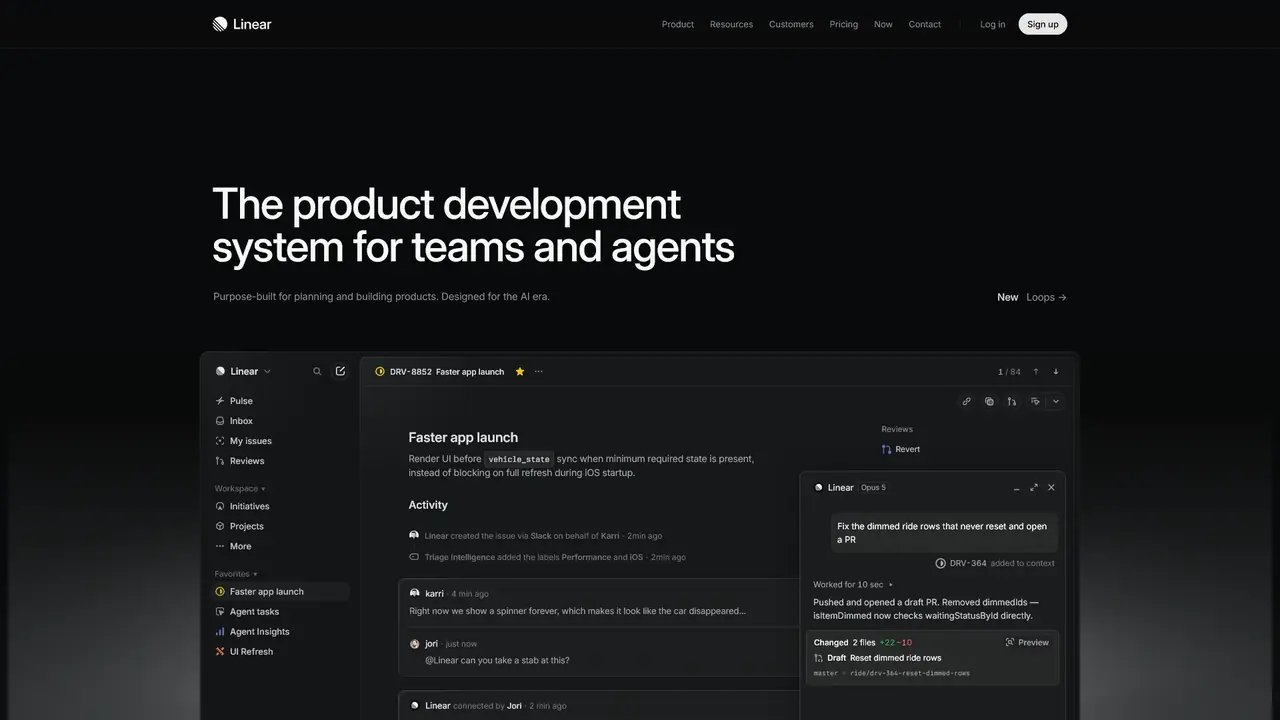
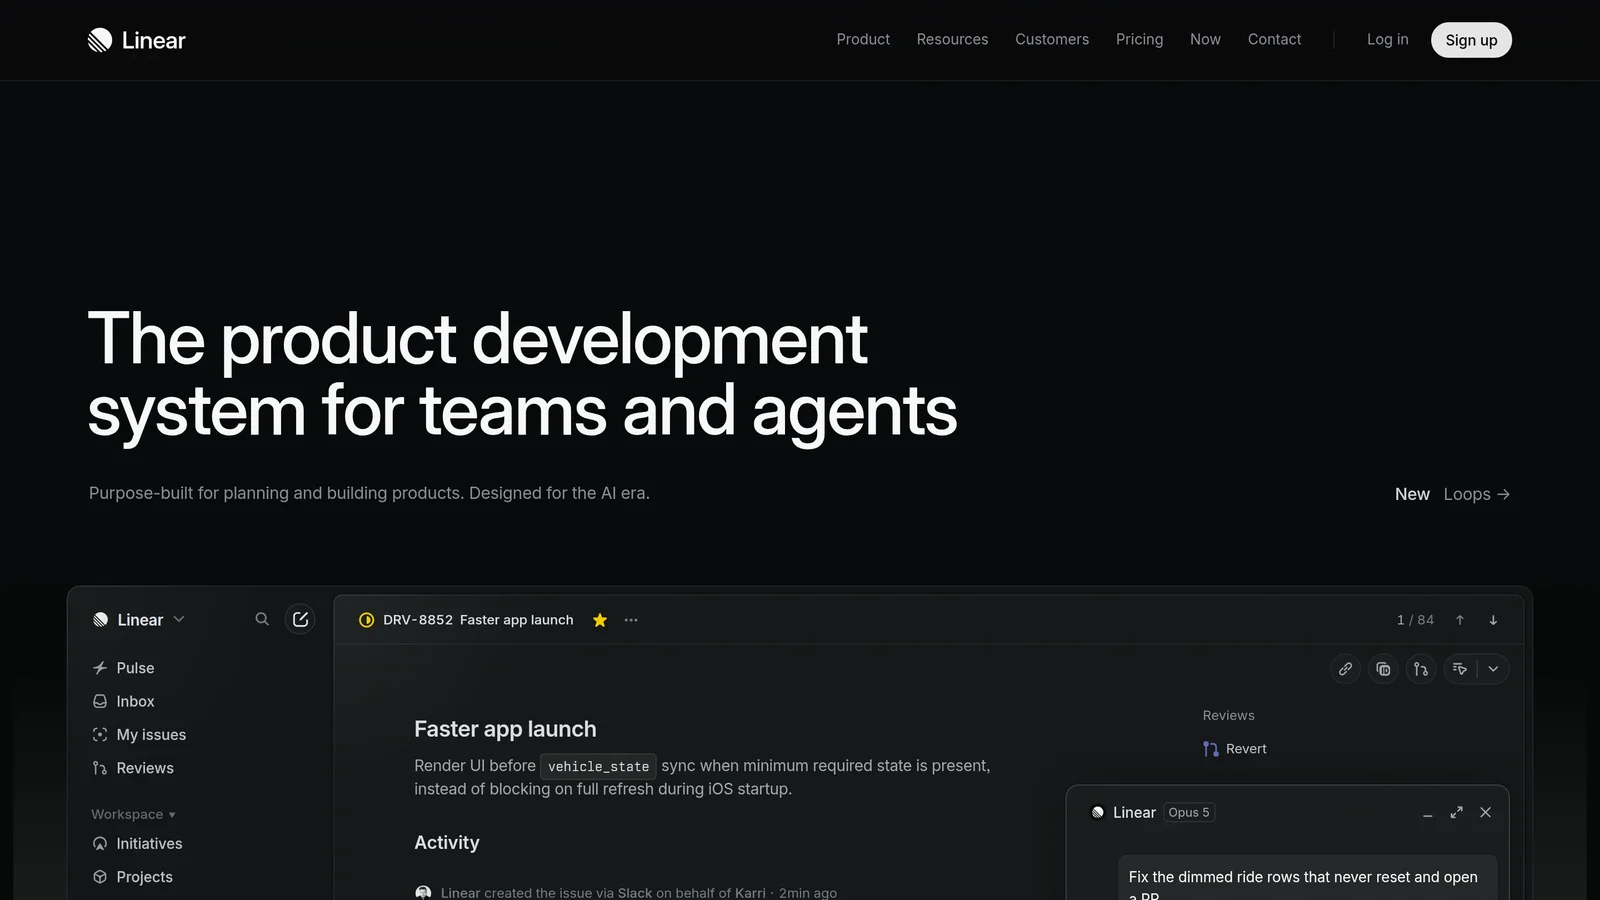
Landing v4: every image regenerated from the sharp 2x captures; Linear testimonials and closing call recaptured (old crops were blank); soft Index button; sound button shows the current state; hovered hero swaps places with the front one; blank-crop check added to the capture skill
Claude-Session: https://claude.ai/code/session_014U6SWDy7oBXdXxmTMspeAT

diff --git a/landing/prototype/landing-v4.html b/landing/prototype/landing-v4.html
@@ -52,8 +52,9 @@ h1, h2, h3 { margin: 0; font-family: var(--font-display); font-weight: 600; lett
 .btn-cta .ar { display: grid; place-items: center; width: 22px; height: 22px; border-radius: 7px; background: rgba(255,255,255,.18); transition: transform .2s; }
 .btn-cta:hover .ar { transform: translateX(2px); }
 .btn-cta .l-short { display: none; }
-.idx-btn { height: 40px; padding: 0 14px; border: 1px solid var(--ink); border-radius: var(--r); background: #fff; display: inline-flex; align-items: center; gap: 10px; font: 500 14px/1 var(--font-body); cursor: pointer; }
-.idx-btn:hover { background: var(--tile); }
+.idx-btn { height: 40px; padding: 0 14px; border: 1px solid rgba(47,85,255,.14); border-radius: var(--r); background: #f4f6fd; color: var(--ink); display: inline-flex; align-items: center; gap: 10px; font: 500 14px/1 var(--font-body); cursor: pointer; transition: background .15s, border-color .15s; }
+.idx-btn:hover { background: #eaeefc; border-color: rgba(47,85,255,.24); }
+.idx-btn[aria-expanded="true"] { background: var(--blue-soft); border-color: rgba(47,85,255,.3); }
 .idx-btn i { display: grid; gap: 4px; width: 16px; }
 .idx-btn i b { display: block; height: 1.5px; background: currentColor; transition: transform .25s; }
 .idx-btn[aria-expanded="true"] i b:first-child { transform: translateY(2.75px) rotate(45deg); }
@@ -170,8 +171,9 @@ main { position: relative; }
 .film video { width: 100%; height: 100%; object-fit: cover; }
 .snd { position: absolute; right: 16px; bottom: 16px; display: inline-flex; align-items: center; gap: 8px; height: 40px; padding: 0 14px; border: 1px solid var(--soft-border); border-radius: 999px; background: rgba(255,255,255,.92); color: var(--ink); font: 500 14px/1 var(--font-body); cursor: pointer; box-shadow: var(--soft-shadow); }
 .snd:hover { background: #fff; }
-.snd .w { opacity: .25; }
-.snd[aria-pressed="true"] .w { opacity: 1; }
+.snd .i-on, .snd[aria-pressed="true"] .i-off { display: none; }
+.snd[aria-pressed="true"] .i-on { display: block; }
+.snd[aria-pressed="true"] { color: var(--blue); border-color: rgba(47,85,255,.35); }
 .film-cap { margin: 12px 0 0; font-size: 10.5px; }
 .tiles-h { margin: clamp(48px, 6vw, 72px) 0 0; font-size: clamp(1.3rem, 1vw + 1rem, 1.6rem); letter-spacing: -.03em; }
 
@@ -181,6 +183,9 @@ main { position: relative; }
 .tile:hover { background: #eef0ea; transform: translateY(-3px); }
 .th { position: relative; aspect-ratio: 4 / 3; overflow: hidden; border: 1px solid var(--line); border-radius: 10px; background: #fff; }
 .th > img { width: 100%; height: 100%; object-fit: cover; object-position: top left; transition: transform .6s cubic-bezier(.2,.8,.2,1); transform-origin: 0 0; }
+/* very wide sections are shown whole, centred on their own background, instead of cropped to an empty corner */
+.th.fit > img { object-fit: contain; object-position: center; padding: 10px; }
+.th.fit.dark { background: #08090a; border-color: #1b1d22; }
 .tile:hover .th > img { transform: scale(1.08); }
 .th.strips { display: grid; align-content: center; gap: 10px; padding: 12px; background: var(--tile); }
 .th.strips img { width: 100%; height: auto; border: 1px solid var(--line); background: #fff; border-radius: 4px; }
@@ -213,11 +218,10 @@ main { position: relative; }
 /* three heroes fanned like cards on a desk: the front one is whole, the others show their top half */
 .vframe.shots.three { display: block; padding: 0; }
 .vframe.shots.three img { position: absolute; width: 64%; height: auto; }
-.vframe.shots.three img:nth-child(1) { left: 5%; top: 7%; }
-.vframe.shots.three img:nth-child(2) { left: 18%; top: 22%; }
-.vframe.shots.three img:nth-child(3) { left: 31%; top: 37%; }
-.vframe.shots.three img { cursor: pointer; transition: transform .35s cubic-bezier(.2,.8,.2,1), box-shadow .35s; }
-.vframe.shots.three img.front { z-index: 4; transform: translateY(-8px) scale(1.03); box-shadow: 0 2px 4px rgba(10,11,13,.06), 0 24px 50px rgba(30,40,90,.22); }
+.vframe.shots.three img.s0 { left: 5%; top: 7%; z-index: 1; }
+.vframe.shots.three img.s1 { left: 18%; top: 22%; z-index: 2; }
+.vframe.shots.three img.s2 { left: 31%; top: 37%; z-index: 3; box-shadow: 0 2px 4px rgba(10,11,13,.06), 0 24px 50px rgba(30,40,90,.22); }
+.vframe.shots.three img { cursor: pointer; transition: left .5s cubic-bezier(.2,.8,.2,1), top .5s cubic-bezier(.2,.8,.2,1), box-shadow .5s; }
 .vframe.shots.three img:focus-visible { outline: 2px solid var(--blue); outline-offset: 3px; }
 .vframe.shots.phones { grid-template-columns: repeat(3, auto); justify-content: center; gap: 14px; }
 .vframe.shots.phones img { height: 100%; width: auto; aspect-ratio: .52; max-height: 100%; object-fit: contain; object-position: top; background: #08090a; border-radius: 18px; min-height: 0; }
@@ -489,19 +493,19 @@ main { position: relative; }
     <p class="sec-sub">Heroes, pricing tables, testimonials and footers are saved as separate, tagged pieces. Search for the one you want, open it, and see what makes it work.</p>
     <div class="film">
       <video id="film" muted loop playsinline preload="metadata" data-src="video/how-it-works" aria-label="Film: a real page is split into tagged parts, one is found by search and opened with notes on what makes it work"></video>
-      <button class="snd" id="snd" type="button" aria-pressed="false"><svg viewBox="0 0 24 24" width="18" height="18" fill="none" stroke="currentColor" stroke-width="1.8" aria-hidden="true"><path d="M4 9v6h4l5 4V5L8 9H4z"/><path class="w" d="M16.5 8.5a5 5 0 0 1 0 7"/></svg><span>Sound on</span></button>
+      <button class="snd" id="snd" type="button" aria-pressed="false" aria-label="Sound is off. Turn sound on"><svg class="i-off" viewBox="0 0 24 24" width="18" height="18" fill="none" stroke="currentColor" stroke-width="1.8" aria-hidden="true"><path d="M4 9v6h4l5 4V5L8 9H4z"/><path d="M17 9.5l4 5M21 9.5l-4 5"/></svg><svg class="i-on" viewBox="0 0 24 24" width="18" height="18" fill="none" stroke="currentColor" stroke-width="1.8" aria-hidden="true"><path d="M4 9v6h4l5 4V5L8 9H4z"/><path d="M16.5 8.5a5 5 0 0 1 0 7"/><path d="M19 6a8.5 8.5 0 0 1 0 12"/></svg><span>Sound off</span></button>
     </div>
     <p class="film-cap mono">Sections shown are from stripe.com, linear.app and studiomaydit.com · Music: “Werq” Kevin MacLeod (incompetech.com), <a href="http://creativecommons.org/licenses/by/4.0/" rel="noopener">CC BY 4.0</a> · Voice: Fish Audio</p>
     <h3 class="tiles-h">What you can search</h3>
     <div class="tiles">
-      <div class="tile"><div class="th"><img src="img/stripe-hero.webp" alt="Hero section example" width="1280" height="541"></div><h3>Hero</h3><p>Headlines, art and first impressions.</p><span class="mono src">stripe.com</span></div>
-      <div class="tile"><div class="th strips"><img src="img/stripe-nav.webp" alt="Navigation bar example" width="1100" height="67"><img src="img/linear-nav.webp" alt="Navigation bar example" width="1280" height="43"><img src="img/studio-nav.webp" alt="Navigation bar example" width="1280" height="67"></div><h3>Navigation</h3><p>Menus and header patterns.</p><span class="mono src">stripe.com · linear.app · studiomaydit.com</span></div>
-      <div class="tile"><div class="th strips"><img src="img/stripe-logos.webp" alt="Logo row example" width="1280" height="47"><img src="img/linear-logos.webp" alt="Logo row example" width="1280" height="53"><img src="img/studio-logos.webp" alt="Logo tiles example" width="1100" height="242"></div><h3>Logo rows</h3><p>Proof strips and customer grids.</p><span class="mono src">stripe.com · linear.app · studiomaydit.com</span></div>
-      <div class="tile"><div class="th"><img src="img/stripe-bento1.webp" alt="Feature grid example" width="1100" height="750"></div><h3>Feature grids</h3><p>Cards, bento layouts and product UI.</p><span class="mono src">stripe.com</span></div>
-      <div class="tile"><div class="th"><img src="img/stripe-stats.webp" alt="Statistics row example" width="1100" height="396"></div><h3>Stats</h3><p>Big numbers and proof points.</p><span class="mono src">stripe.com</span></div>
-      <div class="tile"><div class="th"><img src="img/linear-testimonials.webp" alt="Testimonial cards example" width="1280" height="267"></div><h3>Testimonials</h3><p>Quotes, people and proof.</p><span class="mono src">linear.app</span></div>
-      <div class="tile"><div class="th"><img src="img/studio-case.webp" alt="Case study row example" width="1100" height="389"></div><h3>Case studies</h3><p>Result-led rows with media.</p><span class="mono src">studiomaydit.com</span></div>
-      <div class="tile"><div class="th"><img src="img/linear-cta.webp" alt="Closing call to action example" width="1280" height="213"></div><h3>Closing calls</h3><p>Final sections and sign-ups.</p><span class="mono src">linear.app</span></div>
+      <div class="tile"><div class="th"><img src="img/stripe-hero.webp" alt="Hero section example" width="1600" height="764"></div><h3>Hero</h3><p>Headlines, art and first impressions.</p><span class="mono src">stripe.com</span></div>
+      <div class="tile"><div class="th strips"><img src="img/stripe-nav.webp" alt="Navigation bar example" width="1600" height="84"><img src="img/linear-nav.webp" alt="Navigation bar example" width="1600" height="81"><img src="img/studio-nav.webp" alt="Navigation bar example" width="1600" height="80"></div><h3>Navigation</h3><p>Menus and header patterns.</p><span class="mono src">stripe.com · linear.app · studiomaydit.com</span></div>
+      <div class="tile"><div class="th strips"><img src="img/stripe-logos.webp" alt="Logo row example" width="1600" height="81"><img src="img/studio-logos.webp" alt="Logo tiles example" width="1600" height="373"></div><h3>Logo rows</h3><p>Proof strips and customer grids.</p><span class="mono src">stripe.com · studiomaydit.com</span></div>
+      <div class="tile"><div class="th"><img src="img/stripe-bento1.webp" alt="Feature grid example" width="1600" height="1066"></div><h3>Feature grids</h3><p>Cards, bento layouts and product UI.</p><span class="mono src">stripe.com</span></div>
+      <div class="tile"><div class="th fit"><img src="img/stripe-stats.webp" alt="Statistics row example" width="1600" height="509"></div><h3>Stats</h3><p>Big numbers and proof points.</p><span class="mono src">stripe.com</span></div>
+      <div class="tile"><div class="th"><img src="img/linear-testimonials.webp" alt="Testimonial cards example" width="1600" height="673"></div><h3>Testimonials</h3><p>Quotes, people and proof.</p><span class="mono src">linear.app</span></div>
+      <div class="tile"><div class="th"><img src="img/studio-case.webp" alt="Case study row example" width="1600" height="589"></div><h3>Case studies</h3><p>Result-led rows with media.</p><span class="mono src">studiomaydit.com</span></div>
+      <div class="tile"><div class="th fit dark"><img src="img/linear-cta.webp" alt="Closing call to action example" width="1600" height="273"></div><h3>Closing calls</h3><p>Final sections and sign-ups.</p><span class="mono src">linear.app</span></div>
     </div>
   </section>
 
@@ -520,7 +524,7 @@ main { position: relative; }
           <div class="row-meta mono">Section · Hero · 3 sources linked</div>
         </div>
         <div class="vid">
-          <div class="vframe shots three" id="trio"><img src="img/x-stripe-hero.webp" alt="Hero section of stripe.com" loading="lazy" tabindex="0"><img src="img/x-linear-hero.webp" alt="Hero section of linear.app" loading="lazy" tabindex="0"><img class="front" src="img/x-studio-hero.webp" alt="Hero section of studiomaydit.com" loading="lazy" tabindex="0"></div>
+          <div class="vframe shots three" id="trio"><img class="s0" src="img/x-stripe-hero.webp" alt="Hero section of stripe.com" loading="lazy" tabindex="0"><img class="s1" src="img/x-linear-hero.webp" alt="Hero section of linear.app" loading="lazy" tabindex="0"><img class="s2" src="img/x-studio-hero.webp" alt="Hero section of studiomaydit.com" loading="lazy" tabindex="0"></div>
           <div class="vcap mono"><span>Preview</span><span>Source: stripe.com · linear.app · studiomaydit.com</span></div>
         </div>
       </article>
@@ -665,13 +669,23 @@ main { position: relative; }
     var on = snd.getAttribute('aria-pressed') !== 'true';
     film.muted = !on; if (on) film.currentTime = 0;
     var pr = film.play(); if (pr && pr.catch) pr.catch(function () {});
-    snd.setAttribute('aria-pressed', String(on)); snd.querySelector('span').textContent = on ? 'Sound off' : 'Sound on';
+    snd.setAttribute('aria-pressed', String(on)); snd.querySelector('span').textContent = on ? 'Sound on' : 'Sound off';
+    snd.setAttribute('aria-label', on ? 'Sound is on. Turn sound off' : 'Sound is off. Turn sound on');
   });
-  /* compare heroes: the screenshot you point at, focus or tap comes to the front */
-  var trio = $$('#trio img');
+  /* compare heroes: the screenshot you point at (or focus, or tap) swaps places with the front one.
+     The card that moves back under the pointer is ignored until the pointer leaves it, so the two never flip back and forth. */
+  var trio = $$('#trio img'), slotOf = function (im) { return im.classList.contains('s2') ? 2 : im.classList.contains('s1') ? 1 : 0; }, lock = null;
   trio.forEach(function (im) {
-    function up() { trio.forEach(function (o) { o.classList.toggle('front', o === im); }); }
+    function up() {
+      if (im === lock) return;
+      var k = slotOf(im); if (k === 2) return;
+      var front = trio.filter(function (o) { return slotOf(o) === 2; })[0];
+      im.classList.remove('s' + k); im.classList.add('s2');
+      front.classList.remove('s2'); front.classList.add('s' + k);
+      lock = front;
+    }
     im.addEventListener('pointerenter', up); im.addEventListener('focus', up); im.addEventListener('click', up);
+    im.addEventListener('pointerleave', function () { if (lock === im) lock = null; });
   });
   var vids = $$('video[data-play]');
   if (reduce) { vids.forEach(function (v) { v.removeAttribute('autoplay'); v.pause(); }); }
@@ -710,7 +724,7 @@ main { position: relative; }
   function measure() {
     camW = cam.clientWidth; camH = cam.clientHeight; narrow = camW < 600;
     hh = parseFloat(getComputedStyle(document.documentElement).getPropertyValue('--hh')) || 68;
-    var short = camH < 560, nseg = short ? 3 : 5, ratio = short ? 1.117 : 1.445;
+    var short = camH < 560, nseg = short ? 3 : 5, ratio = short ? 1.462 : 1.902;
     css.forEach(function (c) { if (c.classList.contains('opt')) c.style.display = short ? 'none' : ''; });
     var wb = Math.max(150, Math.min(camW - (narrow ? 70 : 330), 440, (camH - 70 - nseg * 22) / ratio));
     cam.style.setProperty('--wb', wb + 'px');

diff --git a/.claude/skills/landing-films/references/capture.md b/.claude/skills/landing-films/references/capture.md
@@ -10,3 +10,4 @@ The first films looked soft because they were built from the founder's 1920×108
 - **Proxy certificate.** In this sandbox Chromium does not trust the egress proxy by default. Trust exactly that CA with `--ignore-certificate-errors-spki-list=<sha256 of /root/.ccr/agent-proxy-ca.crt public key>`, never with a blanket ignore-HTTPS-errors flag.
 - **Fonts.** For our own renders, ship font files locally. A blocked font host fails silently and everything falls back to system fonts.
 - **Respect.** Check `robots.txt`, keep the number of sites small, credit each site, and keep third-party captures in private prototypes until counsel signs off.
+- **Blank-crop check.** Scroll-reveal sections can be photographed before they fade in, which gives a solid black or white crop (Linear's testimonials, closing call and footer, and Stripe's closing call and footer all came out blank once). After cropping, compute the greyscale standard deviation of each crop at 300×300. Below about 12 means the crop is empty: capture that section again by scrolling it into view and waiting about 3 s before an element screenshot. Never ship a crop without this check.
